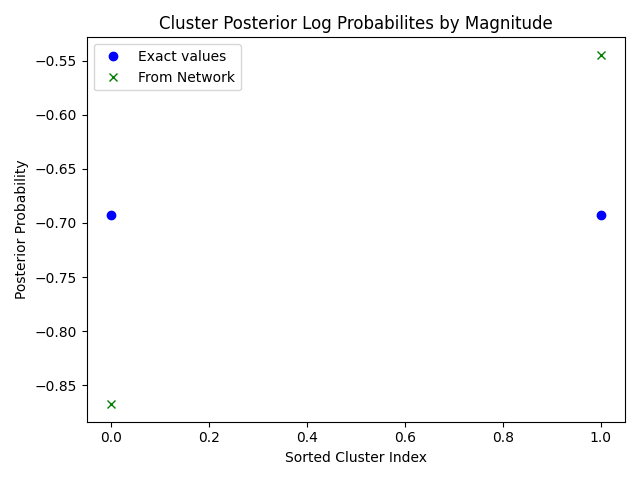
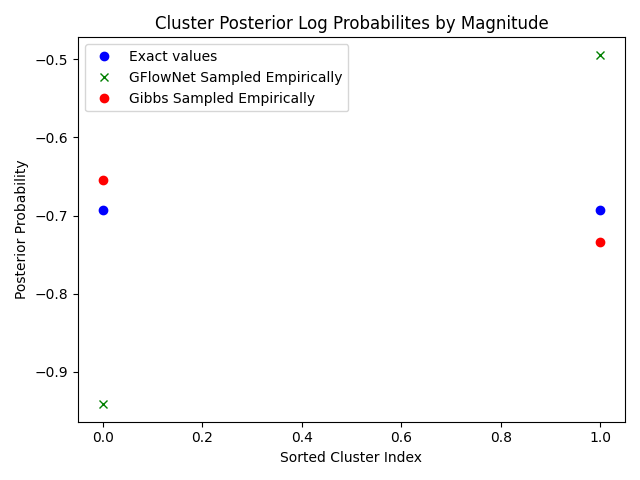
Spray n' pray

diff --git a/GraphClustering/ResultsSmall/RunComparison.py b/GraphClustering/ResultsSmall/RunComparison.py
@@ -8,7 +8,7 @@ except ModuleNotFoundError:
 if __name__ == '__main__':
     min_N = 6
     max_N = 6
-    max_epochs = 100
+    max_epochs = 50
     epoch_interval = 1
     n_samples = 100
     use_node_order = True
@@ -21,7 +21,7 @@ if __name__ == '__main__':
                                             run_test=True,
                                             plot_last=True,
                                             n_samples=n_samples,
-                                            n_samples_distribution=1000,
+                                            n_samples_distribution=100,
                                             max_epochs=max_epochs,
                                             epoch_interval=epoch_interval,
                                             use_fixed_node_order=use_node_order)

diff --git a/GraphClustering/Core/Core.py b/GraphClustering/Core/Core.py
@@ -1172,7 +1172,7 @@ def compare_results_small_graphs(filename,
                 gibbsSamples = Gibbs_sample_torch(adjacency_matrix, n_samples_distribution*2, return_clustering_matrix=True)
                 tempSamples = torch.zeros((n_samples_distribution, N**2*2))
                 for i, sample in enumerate(gibbsSamples):
-                    tempSamples[i] = torch.tensor(sample)
+                    tempSamples[i] = torch.concat((adjacency_matrix.flatten(), torch.tensor(sample.flatten())))
                 # gibbsSamples = torch.tensor([ for sample in gibbsSamples])
                 gibbsDistribution = empiricalSampleDistribution(tempSamples, N, net, numpy=True, log=True)
                 plot_posterior(cluster_post,
